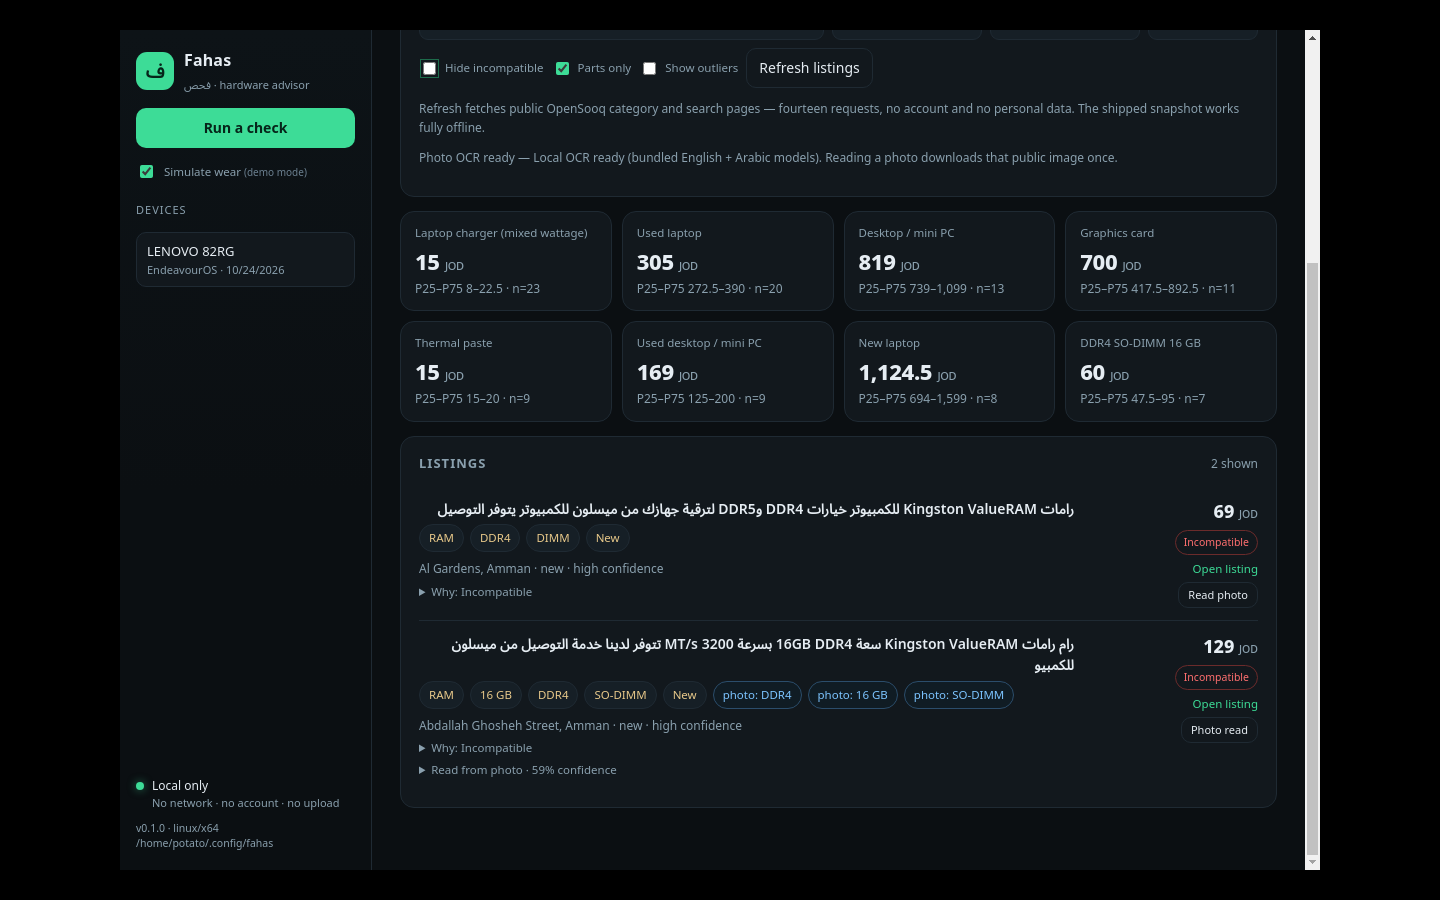
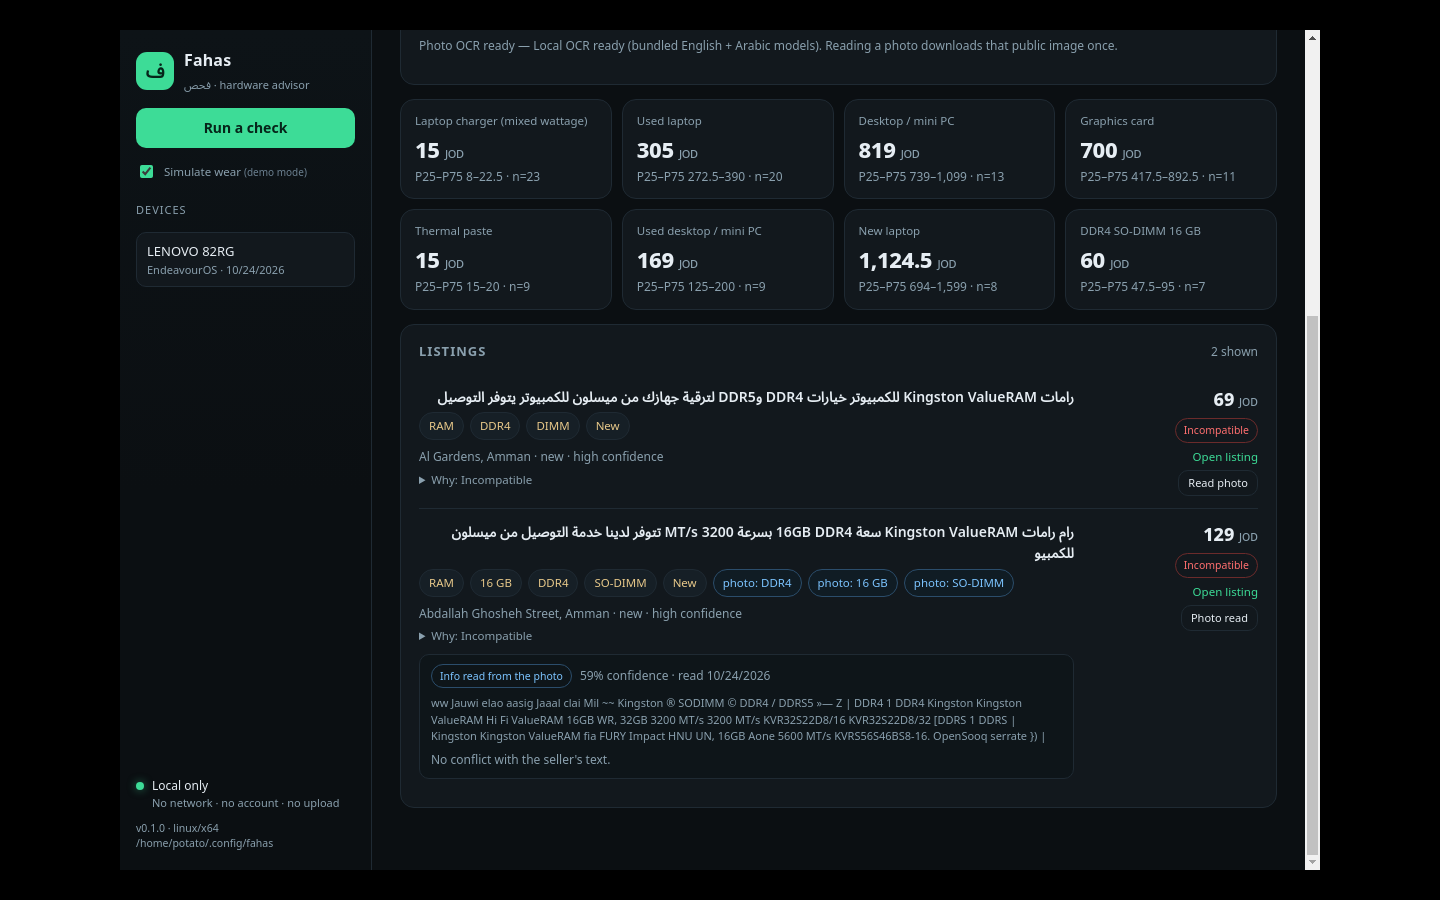
Show OCR text inline under each listing
- Replaces the hidden disclosure with an always-visible 'Info read from the photo' panel
- Shows confidence, capture date, raw OCR text (scrollable, dir=auto) and conflicts
- Explicit 'no conflict with the seller's text' when clean
- Refreshes docs/market-ocr.png and README steps

diff --git a/ui/app.js b/ui/app.js
@@ -718,20 +718,23 @@ function listingRow(l) {
         </details>
         ${
           l.photo
-            ? `<details>
-                 <summary>Read from photo · ${l.photo.confidence ? `${l.photo.confidence}% confidence` : "confidence unavailable"}</summary>
-                 <div class="ocr-text">${esc(l.photo.text)}</div>
+            ? `<div class="photo-info">
+                 <div class="photo-info-head">
+                   <span class="badge blue">Info read from the photo</span>
+                   <span class="muted small">${l.photo.confidence ? `${l.photo.confidence}% confidence` : "confidence unavailable"} · read ${new Date(l.photo.createdAt).toLocaleDateString()}</span>
+                 </div>
+                 <div class="ocr-text" dir="auto">${esc(l.photo.text)}</div>
                  ${
                    l.photo.conflicts.length
-                     ? `<ul>${l.photo.conflicts
+                     ? `<ul class="conflict-list">${l.photo.conflicts
                          .map(
                            (c) =>
                              `<li><strong>Conflict:</strong> seller says “${esc(c.title)}”, photo says “${esc(c.photo)}”</li>`,
                          )
                          .join("")}</ul>`
-                     : ""
+                     : `<p class="muted small" style="margin:6px 0 0">No conflict with the seller's text.</p>`
                  }
-               </details>`
+               </div>`
             : ""
         }
       </div>

diff --git a/ui/style.css b/ui/style.css
@@ -257,6 +257,14 @@ label.inline input { width: auto; accent-color: var(--mint); }
   border: 1px solid var(--line); color: var(--muted); font-size: 11px; line-height: 1.5;
   max-height: 140px; overflow: auto; white-space: pre-wrap; word-break: break-word;
 }
+.photo-info {
+  margin-top: 9px; border: 1px solid var(--line); border-radius: 10px;
+  background: #0e1519; padding: 9px 11px;
+}
+.photo-info-head { display: flex; align-items: center; gap: 8px; flex-wrap: wrap; }
+.photo-info .ocr-text { border: none; background: transparent; padding: 0; margin-top: 7px; max-height: 120px; }
+.conflict-list { margin: 7px 0 0; padding-left: 16px; color: var(--red); font-size: 11.5px; }
+.conflict-list li { margin: 2px 0; }
 .listing details { margin-top: 4px; }
 .listing summary { cursor: pointer; color: var(--muted); font-size: 11.5px; }
 .listing ul { margin: 6px 0 0; padding-left: 16px; color: var(--muted); font-size: 11.5px; }

diff --git a/README.md b/README.md
@@ -253,8 +253,9 @@ How it behaves:
 3. Untick **Hide incompatible** — both ValueRAM listings are DDR4 and the demo machine is DDR5, so they are hidden
    by default (correctly).
 4. On a listing, click **Read photo** on the right.
-5. The listing gains `photo: DDR4`, `photo: 16 GB`, `photo: SO-DIMM` chips and a **Read from photo · 59% confidence**
-   block showing the OCR text. The seller's title stays untouched.
+5. The listing gains `photo: DDR4`, `photo: 16 GB`, `photo: SO-DIMM` chips, plus a visible
+   **Info read from the photo** panel: confidence, capture date, the raw OCR text, and any conflicts with the
+   seller's wording. The seller's title stays untouched.
 
 The Market header reports `Photo OCR ready — Local OCR ready (bundled English + Arabic models)` when Tesseract is
 present, or the install hint for the OS when it is not.
